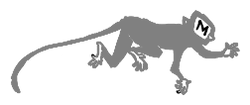
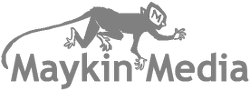
Moar sponsors!

diff --git a/themes/pygrunn/templates/sponsors.html b/themes/pygrunn/templates/sponsors.html
@@ -3,11 +3,6 @@
         <div class="uk-container uk-container-center">
             <div class="uk-grid uk-grid-small uk-grid-width-1-2 uk-grid-width-medium-1-4 uk-text-center">
                 <div>
-                    <a class="voys-logo sponsor-img uk-display-inline-block uk-vertical-align-middle text-hidden" href="http://www.voys.nl/" target="_blank">
-                        <span >Voys</span>
-                    </a>
-                </div>
-                <div>
                     <a class="getlogic-logo sponsor-img uk-display-inline-block uk-vertical-align-middle text-hidden" href="http://www.getlogic.nl/" target="_blank">
                         <span>Getlogic</span>
                     </a>
@@ -18,8 +13,52 @@
                     </a>
                 </div>
                 <div>
+                    <a class="spindle-logo sponsor-img uk-display-inline-block uk-vertical-align-middle text-hidden" href="http://www.wearespindle.com/" target="_blank">
+                        <span>Spindle</span>
+                    </a>
+                </div>
+                <div>
                     <a class="media2b-logo sponsor-img uk-display-inline-block uk-vertical-align-middle text-hidden" href="http://www.media2b.net" target="_blank">
                         <span>Media2B</span>
+                    </a>
+                </div>
+            </div>
+            <div class="uk-grid uk-grid-small uk-grid-width-1-2 uk-grid-width-medium-1-5 uk-text-center">
+                <div>
+                    <a class="maykin-media-logo sponsor-img uk-display-inline-block uk-vertical-align-middle text-hidden" href="http://www.maykinmedia.nl/en/" target="_blank">
+                        <span>Maykin Media</span>
+                    </a>
+                </div>
+                <div>
+                    <a class="optiver-logo sponsor-img uk-display-inline-block uk-vertical-align-middle text-hidden" href="http://www.optiver.com/amsterdam/" target="_blank">
+                        <span>Optiver</span>
+                    </a>
+                </div>
+                <div>
+                    <a class="voys-logo sponsor-img uk-display-inline-block uk-vertical-align-middle text-hidden" href="http://www.voys.nl/" target="_blank">
+                        <span >Voys</span>
+                    </a>
+                </div>
+                <div>
+                    <a class="crop-r-logo sponsor-img uk-display-inline-block uk-vertical-align-middle text-hidden" href="http://www.crop-r.com/" target="_blank">
+                        <span >Crop-R</span>
+                    </a>
+                </div>
+                <div>
+                    <a class="resello-logo sponsor-img uk-display-inline-block uk-vertical-align-middle text-hidden" href="http://www.resello.com/" target="_blank">
+                        <span >Resello</span>
+                    </a>
+                </div>
+            </div>
+            <div class="uk-grid uk-grid-small uk-grid-width-1-2 uk-grid-width-medium-1-2 uk-text-center">
+                <div>
+                    <a class="academic-transfer-logo sponsor-img uk-display-inline-block uk-vertical-align-middle text-hidden" href="https://www.academictransfer.com/" target="_blank">
+                        <span>Academic Transfer</span>
+                    </a>
+                </div>
+                <div>
+                    <a class="peperzaken-logo sponsor-img uk-display-inline-block uk-vertical-align-middle text-hidden" href="https://www.peperzaken.nl/" target="_blank">
+                        <span>Peperzaken</span>
                     </a>
                 </div>
             </div>

diff --git a/themes/pygrunn/templates/about.html b/themes/pygrunn/templates/about.html
@@ -17,8 +17,8 @@
             <h3>Gold</h3>
             <div class="uk-grid uk-grid-width-1-1 uk-grid-width-medium-1-4 uk-grid-width-large-1-5" data-uk-grid-margin>
                 <div>
-                    <a class="voys-logo sponsor-img uk-display-inline-block uk-vertical-align-middle text-hidden" href="http://www.voys.nl/" target="_blank">
-                        <span >Voys</span>
+                    <a class="paylogic-logo sponsor-img uk-display-inline-block uk-vertical-align-middle text-hidden" href="http://www.paylogic.com" target="_blank">
+                        <span>Paylogic</span>
                     </a>
                 </div>
                 <div>
@@ -27,8 +27,8 @@
                     </a>
                 </div>
                 <div>
-                    <a class="paylogic-logo sponsor-img uk-display-inline-block uk-vertical-align-middle text-hidden" href="http://www.paylogic.com" target="_blank">
-                        <span>Paylogic</span>
+                    <a class="spindle-logo sponsor-img uk-display-inline-block uk-vertical-align-middle text-hidden" href="http://www.wearespindle.com/" target="_blank">
+                        <span>Spindle</span>
                     </a>
                 </div>
                 <div class="uk-width-medium-2-5">
@@ -47,6 +47,21 @@
                 <div>
                     <a class="optiver-logo sponsor-img uk-display-inline-block uk-vertical-align-middle text-hidden" href="http://www.optiver.com/amsterdam/" target="_blank">
                         <span>Optiver</span>
+                    </a>
+                </div>
+                <div>
+                    <a class="voys-logo sponsor-img uk-display-inline-block uk-vertical-align-middle text-hidden" href="http://www.voys.nl/" target="_blank">
+                        <span >Voys</span>
+                    </a>
+                </div>
+                <div>
+                    <a class="crop-r-logo sponsor-img uk-display-inline-block uk-vertical-align-middle text-hidden" href="http://www.crop-r.com/" target="_blank">
+                        <span >Crop-R</span>
+                    </a>
+                </div>
+                <div>
+                    <a class="resello-logo sponsor-img uk-display-inline-block uk-vertical-align-middle text-hidden" href="http://www.resello.com/" target="_blank">
+                        <span >Resello</span>
                     </a>
                 </div>
             </div>

diff --git a/themes/pygrunn/static/stylesheets/style.css b/themes/pygrunn/static/stylesheets/style.css
@@ -54,15 +54,17 @@ a:hover,.uk-link:hover{color:#312A1E;text-decoration:none;}
 .minddistrict-logo{width:225px;height:68px;background-image:url(../images/sponsors/minddistrict_light.png);}
 .goldmund-logo{width:300px;height:44px;background-image:url(../images/sponsors/goldmund_light.png);}
 .media2b-logo{width:200px;height:38px;background-image:url(../images/sponsors/media2b_light.png);}
-.heroku-logo{width:140px;height:40px;background-image:url(../images/sponsors/heroku_light.png);}
 .at-logo{width:95px;height:44px;background-image:url(../images/sponsors/at_light.png);}
-.voys-logo{width:140px;height:38px;background-image:url(../images/sponsors/voys_light.png);}
+.voys-logo{width:100px;height:32px;background-image:url(../images/sponsors/voys_light.png);}
 .launchcafe-logo{width:120px;height:31px;background-image:url(../images/sponsors/launchcafe_light.png);}
 .experty-logo{width:180px;height:41px;background-image:url(../images/sponsors/experty_light.png);}
-.maykin-media-logo{width:125px;height:53px;background-image:url(../images/sponsors/maykin_media_light.png);}
-.optiver-logo{width:125px;height:49px;background-image:url(../images/sponsors/optiver_light.png);}
+.maykin-media-logo{width:100px;height:48px;background-image:url(../images/sponsors/maykin_media_light.png);}
+.optiver-logo{width:100px;height:39px;background-image:url(../images/sponsors/optiver_light.png);}
 .peperzaken-logo{width:90px;height:21px;background-image:url(../images/sponsors/peperzaken_light.png);}
-.academic-transfer-logo{width:90px;height:42px;background-image:url(../images/sponsors/at_light.png);}
+.academic-transfer-logo{width:80px;background-image:url(../images/sponsors/at_light.png);}
+.resello-logo{width:100px;height:35px;background-image:url(../images/sponsors/resello_light.png);}
+.crop-r-logo{width:100px;height:35px;background-image:url(../images/sponsors/crop-r_light.png);}
+.spindle-logo{width:150px;height:60px;background-image:url(../images/sponsors/spindle_light.png);}
 
 /* Navbar */
 .uk-navbar{background:#0B333F;color:#FFFFFF;}

diff --git a/themes/pygrunn/templates/base.html b/themes/pygrunn/templates/base.html
@@ -35,10 +35,6 @@
 
 <body>
 
-    <div class="uk-sticky sticky-top" data-uk-sticky="{top:91}" data-uk-scrollspy-nav="{smoothscroll: {closest: 'li', offset: 81}}">
-        <h2>We are preparing for 2015! <a href="#rfp">Submit</a> your proposal this weekend and thanks for all the <a href="#tips">tips</a> for improvements!</h2>
-    </div>
-
     {% include "header.html" %}
 
     {% include "sponsors.html" %}
